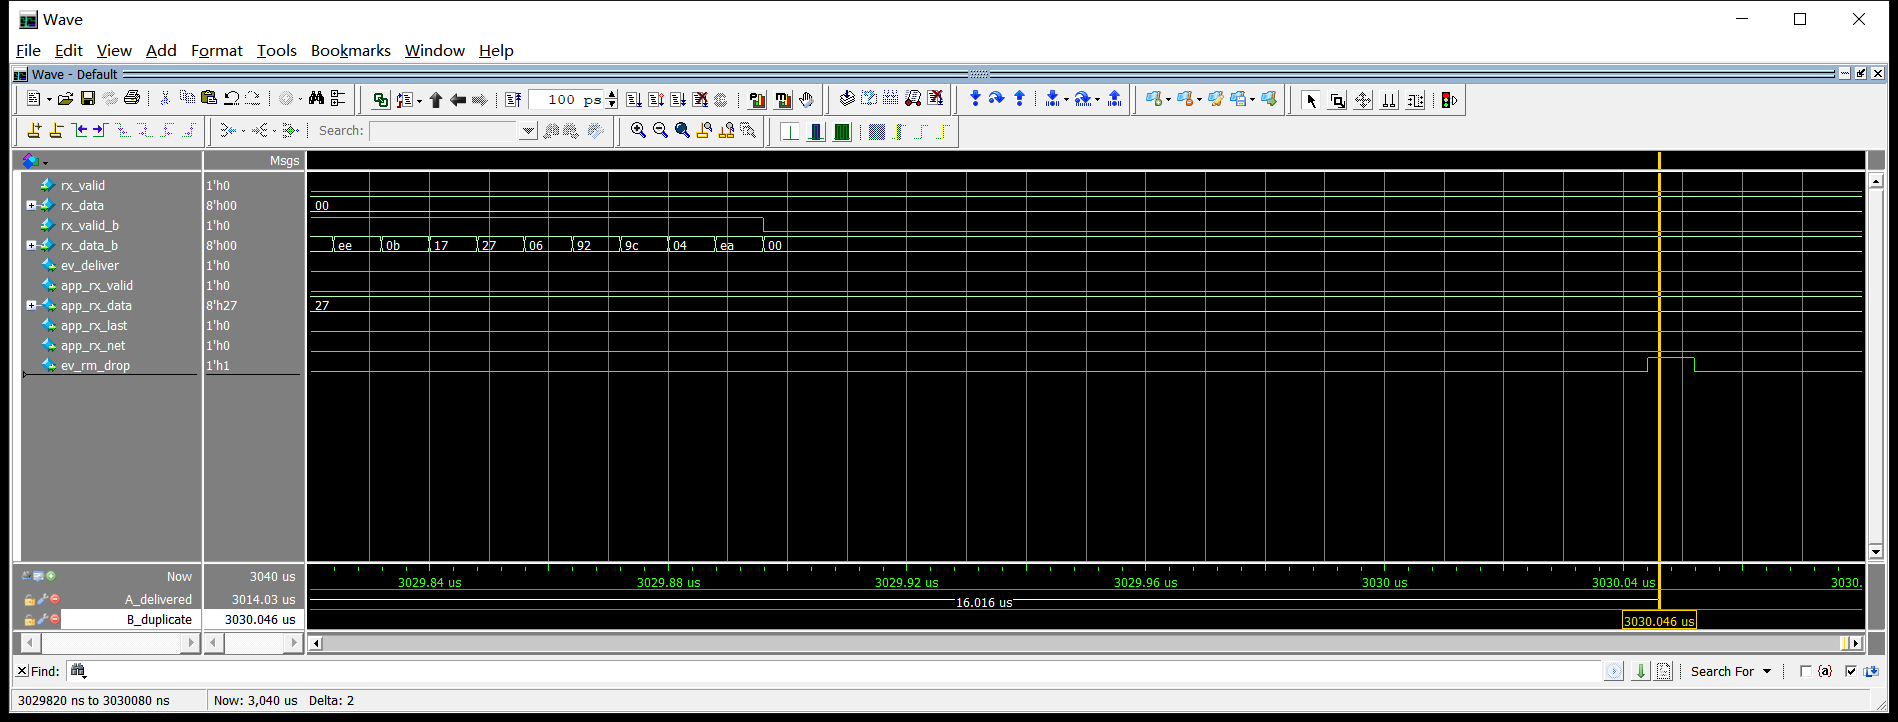
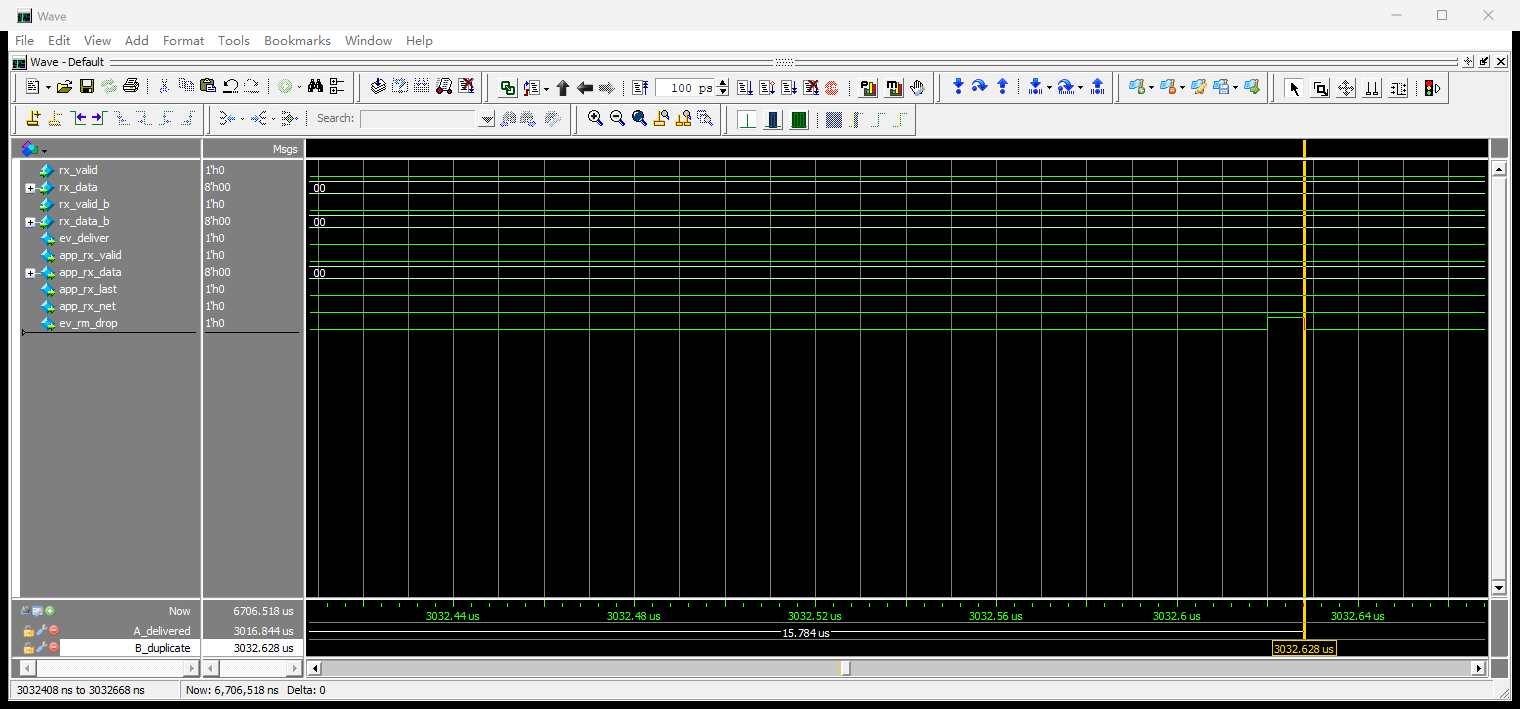
docs: refresh fragmentation wave screenshots from 12858ddf
Source: 12858ddf docs/evidence/report-verification-20261103/out/report_wave/*/captures/.
tb_elinx.png: authorized 11-04 eLinx GUI screenshot.

SHA256:
99779f06341ac3213d937e3d8900f3045903fe0d13491b41646c6545c0f2cd7f  sim/wave/png/rx_fcs_error_1.png
7fc55d3b6228cfb56291026f486aab3fb0360adb0c60e99b9be0e4d201ce35ea  sim/wave/png/rx_fcs_error_2.png
78572d2d5a15f8167a66fbab6ea8cf2a63bf97ab42bcf19815e9f1213c025a18  sim/wave/png/rx_fcs_error_3.png
b5217f2ead4704bf053e1ce03a5f9084f9d1d849ab91126528dc16fbcc912d44  sim/wave/png/rx_redundancy_1.png
74fb7c2c3fc88983c9fca2dd7a03ec259d48291ef58d9f51f66ec136a889efee  sim/wave/png/rx_redundancy_2.png
6f5d4fbc21983b1f2d0f3bc9a14ebfb9b640e01f2a66de49a5c46c5a88e52598  sim/wave/png/services.png
1efc9d9a3bbabfbe28b903945864155eeff1ee1e2cbb4c4c782ba616f4fdf722  sim/wave/png/snmp_get_1.png
00f314faf82e3a84dd5fa69f5c181039082bc6e48c81169a9a1755a8c45f6c33  sim/wave/png/snmp_get_2.png
48c1ff0b4d8a3798a2a83aa7300123f6cb7aaccd016748785d5c21dda344f652  sim/wave/png/tb_elinx.png
7b7872bb20f52a10e5d634418f084a5f0d21b87717093c5d8cedb433f2ead114  sim/wave/png/tx_bag.png
175a8b15c94195adce6355c446c50f98ddd82a2e96cbaee14b300faea6a55e4c  sim/wave/png/tx_bag_first.png
79c3a07b0514987c3cca55d44b52caaa13977793c55e91e83f0891d642896c4c  sim/wave/png/tx_bag_second.png
a3939de9ab1955d882f20ffc974b6b3248fe74ee7e64940d3e3e725ccd66ee99  sim/wave/png/tx_dual_1.png
fbd31b6e207f238329b4647c6da194b5a0315ce3b432a3e050c1e5d52c5bdbd3  sim/wave/png/tx_dual_2.png

Changed region(s): [[0.0, 0.0, 1.0, 0.9929]]

diff --git a/README.md b/README.md
@@ -100,7 +100,7 @@ do sim/run_app.do sim/vectors/app/small_stimulus.txt
 下列 PNG 为此前版本的归档截图，表中时间窗口对应这些原图；当前管理响应拍数以本版联测结果为准。
 
 报告波形：在仓库根目录执行 `do sim/wave/tx_dual.do`；另外四个脚本是 `rx_redundancy.do`、`rx_fcs_error.do`、`tx_bag.do`、`snmp_get.do`，均自行编译、运行并显示真实 ModelSim Wave 窗口，采用默认黑底配色。生成输入向量时需要上述 Python 环境。切换场景前执行 `quit -sim`，再切回根目录。
-批量截图用 `python sim/wave/export.py`，单个场景可追加 `--scene tx_bag`。脚本通过 Windows 的 `PrintWindow` 捕获本次 ModelSim 会话的 Wave 窗口，保留菜单、信号名、数值、时间轴和光标读数。PNG 在 `sim/wave/png/`；工作库、WLF、原始窗口截图和日志保存在 `out/wave/`。
+批量截图用 `python sim/wave/export.py`，单个场景可追加 `--scene tx_bag`。脚本通过 Windows 的 `PrintWindow` 捕获本次 ModelSim 会话的 Wave 窗口，保留菜单、信号名、数值、时间轴和光标读数。`sim/wave/png/` 已更新为分片版 11-03 波形截图（来源提交 `12858ddf`），`tb_elinx.png` 为 11-04 eLinx 界面人工验证截图；工作库、WLF、原始窗口截图和日志保存在 `out/wave/`。
 
 | 图片 | 时间窗口（us） | 观察内容 |
 |---|---:|---|
@@ -267,7 +267,7 @@ python tools/check_multicycle.py <本次VQM路径> --constraints elinx/constrain
 2. 在 Sources → Simulation Sources → `sim_1` 中确认目标仿真文件是 `tb_elinx.v`、仿真顶层是 `tb_elinx`，并且有 `judge_endpoint.v`。这些设置已写入工程，综合顶层仍是 `AFDX_top`。
 3. 点击 Flow → Run Behavioral Simulation。ModelSim 会运行两个端系统经双网互发 1、64、1471 字节消息的自检；预期依次看到三条 `[ELINX_MESSAGE] ... both_directions=PASS`，最后是 `[RESULT] tb_elinx PASS checks=9238 errors=0`。测试不需要 Python、输入文件或额外的 include 路径和宏。
 
-F1 版本已于 2026-10-29 在界面复跑通过：`[RESULT] tb_elinx PASS checks=9238 errors=0`，仿真时间 2,557,473 ns；界面截图见 `sim/wave/png/tb_elinx.png`（截图为 2026-10-12 历史版本）。仿真结束时 ModelSim 会弹出 Finish Vsim 对话框，选“否”可保留窗口查看输出。
+分片版已于 11-04 在界面人工复跑通过：`[RESULT] tb_elinx PASS checks=9238 errors=0`，仿真时间 2,557,777 ns，Elapsed 0:02:18，Errors 0、Warnings 90；界面截图见 `sim/wave/png/tb_elinx.png`。仿真结束时 ModelSim 会弹出 Finish Vsim 对话框，选“否”可保留窗口查看输出。
 
 ## 综合后网表仿真
 
@@ -316,7 +316,7 @@ F1b 已修正 `SYS_TOP_NETLIST` 下的公开输入消息观测和双网接收来
 
 F1 的界面复跑已完成，产物比对 PASS，记录见 [界面比对](docs/evidence/t63_f1_gui_compare.json)；操作步骤见 [F1 界面复跑](docs/T63_F1_GUI.md)。
 
-`sim/wave/png/` 的截图保持归档版本；本轮未更新图形截图。静态时序不等于上板实测，也未覆盖完整外部 I/O 延迟预算。
+`sim/wave/png/` 已更新为来源 `12858ddf` 的分片版 11-03 波形，`tb_elinx.png` 使用 11-04 eLinx 界面截图。静态时序不等于上板实测，也未覆盖完整外部 I/O 延迟预算。
 
 ## 模块一览
 
